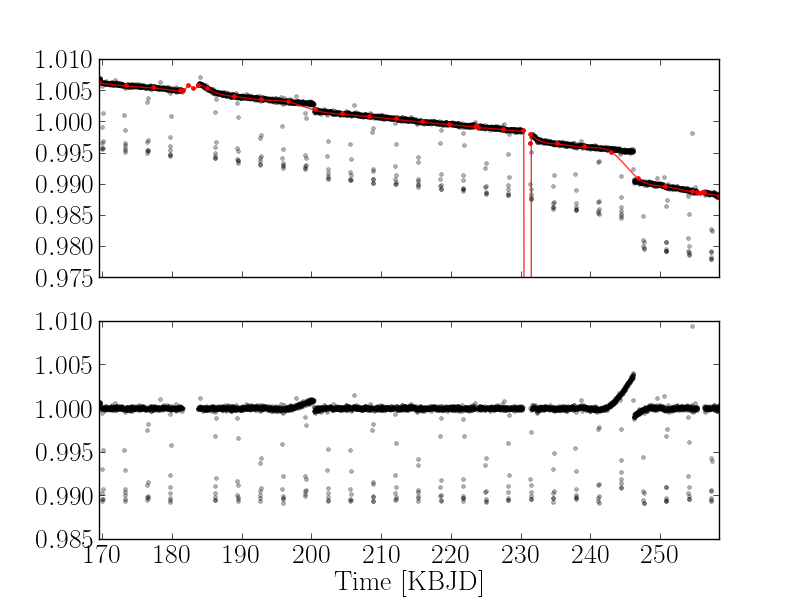
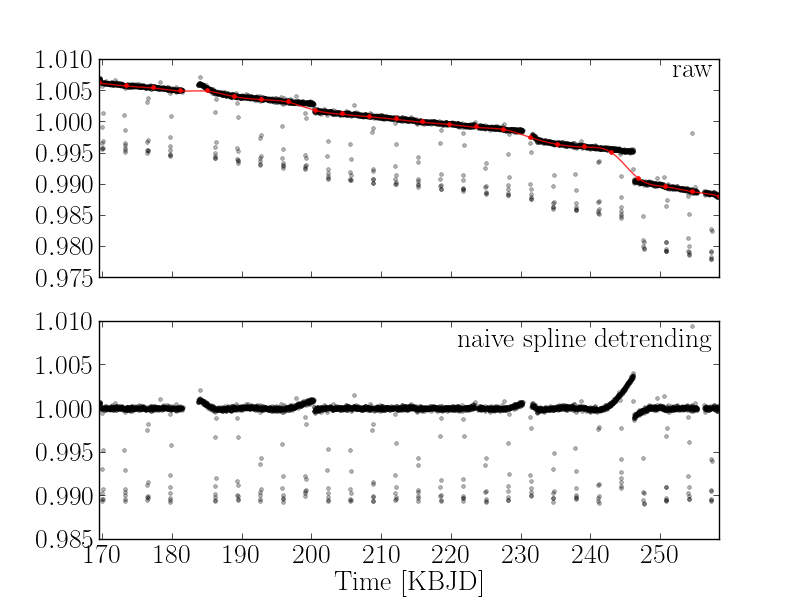
discussion of IRLS and starting to talk about discontinuities

diff --git a/docs/detrend_figures/make_figures.py b/docs/detrend_figures/make_figures.py
@@ -47,28 +47,37 @@ ax[-1].set_xlabel("Time [KBJD]")
 
 fig.savefig("detrend.png")
 
-# Plot the fitting figures.
-fig2 = pl.figure(figsize=[8, 6])
-ax2 = [fig2.add_subplot(2, 1, i + 1) for i in range(2)]
+ps = [spline_detrend(ds.time, ds.flux, yerr=ds.ferr, fill_times=False,
+                     maxditer=1),
+      spline_detrend(ds.time, ds.flux, yerr=ds.ferr, maxditer=1),
+      spline_detrend(ds.time, ds.flux, yerr=ds.ferr)]
 
-# Do the most basic de-trending.
-p2 = spline_detrend(ds.time, ds.flux, yerr=ds.ferr, maxditer=1)
-factor2 = p2(ds.time)
+for i, p in enumerate(ps):
+    # Plot the fitting figures.
+    fig2 = pl.figure(figsize=[8, 6])
+    ax2 = [fig2.add_subplot(2, 1, j + 1) for j in range(2)]
 
-# Plot the basic fit.
-t = np.linspace(xlim[0], xlim[1], 10 * len(ds.time))
-ax2[0].plot(ds.time, ds.flux, ".k", alpha=0.3)
-ylim = ax2[0].get_ylim()
-ax2[0].plot(t, p2(t), "r", alpha=0.8)
-ax2[0].plot(p2.get_knots(), p2(p2.get_knots()), ".r", alpha=1)
-ax2[0].set_ylim(ylim)
+    # Do the most basic de-trending.
+    factor2 = p(ds.time)
 
-# Plot the basic de-trend.
-ax2[1].plot(ds.time, ds.flux / factor2, ".k", alpha=0.3)
+    # Plot the basic fit.
+    t = np.linspace(xlim[0], xlim[1], 10 * len(ds.time))
+    ax2[0].plot(ds.time, ds.flux, ".k", alpha=0.3)
+    ylim = ax2[0].get_ylim()
+    ax2[0].plot(t, p(t), "r", alpha=0.8)
+    ax2[0].plot(p.get_knots(), p(p.get_knots()), ".r", alpha=1)
+    ax2[0].set_ylim(ylim)
 
-# Format the axes.
-[a.set_xlim(xlim) for a in ax2]
-[a.set_xticklabels([]) for a in ax2[:-1]]
-ax2[-1].set_xlabel("Time [KBJD]")
+    # Plot the basic de-trend.
+    ax2[1].plot(ds.time, ds.flux / factor2, ".k", alpha=0.3)
 
-fig2.savefig("detrend_2.png")
+    # Format the axes.
+    [a.set_xlim(xlim) for a in ax2]
+    [a.set_xticklabels([]) for a in ax2[:-1]]
+    ax2[-1].set_xlabel("Time [KBJD]")
+
+    [a.annotate(s, [1, 1], xycoords="axes fraction", ha="right", va="top",
+                xytext=[-5, -5], textcoords="offset points")
+            for (a, s) in zip(ax2, ["raw", "naive spline detrending"])]
+
+    fig2.savefig("detrend_{0}.png".format(i + 2))

diff --git a/bart/kepler.py b/bart/kepler.py
@@ -31,7 +31,7 @@ TIME_ZERO = 2454833.0
 
 
 def spline_detrend(x, y, yerr=None, Q=4, dt=4., tol=1.25e-3, maxiter=15,
-                   maxditer=4, nfill=4):
+                   fill_times=True, maxditer=4, nfill=4):
     """
     Use iteratively re-weighted least squares to fit a spline to the base
     trend in a time series. This is especially useful (and specifically
@@ -81,9 +81,10 @@ def spline_detrend(x, y, yerr=None, Q=4, dt=4., tol=1.25e-3, maxiter=15,
     t = np.linspace(x[0], x[-1], N)[1:-1]
 
     # Refine knot locations around break points.
-    inds = x[1:] - x[:-1] > 10 ** (-1.25)
-    for i in np.arange(len(x))[inds]:
-        t = _add_knots(t, x[i], x[i + 1], N=nfill)
+    if fill_times:
+        inds = x[1:] - x[:-1] > 10 ** (-1.25)
+        for i in np.arange(len(x))[inds]:
+            t = _add_knots(t, x[i], x[i + 1], N=nfill)
 
     for j in range(maxditer):
         s0 = None

diff --git a/docs/user/detrending.rst b/docs/user/detrending.rst
@@ -19,6 +19,18 @@ computationally tractable at this point so these techniques won't be discussed
 here.
 
 
+How to Use Bart to Apply De-trending
+------------------------------------
+
+By default the :class:`bart.dataset.KeplerDataset` applies spline de-trending algorithm to
+the light curve when it reads the data. This behavior can be specified using
+the ``detrend`` keyword argument in the constructor.
+
+If you would like the apply the de-trending algorithm to a different dataset
+or if you would like to have a greater level of control, you can use the
+:func:`bart.kepler.spline_detrend` function.
+
+
 Nature of the Trends
 --------------------
 
@@ -28,4 +40,85 @@ There are three distinct classes of artifacts in the Kepler light curves:
 2. temporal breaks without data, and
 3. abrupt discontinuities in sensitivity.
 
-The following figure shows examples
+The following figure shows the long cadence data from a single quarter spent
+observing the Kepler-6 system. The top panel shows the raw aperture photometry
+reported by the Kepler pipeline. The middle panel shows the resulting light
+curve after the PDC correction. The bottom panel shows the result of
+de-trending using the techniques described here.
+
+.. image:: ../_static/detrend.png
+
+This is a nice example because it clearly displays all three issues mentioned
+above. The smooth component seems roughly piecewise linear with the breaks in
+the slope occurring where there are discontinuities in the data. At around 182
+days, there is a temporal break (type 2 above) that also has a corresponding
+sensitivity discontinuity (type 3 above). Then, at around 200 days, there is a
+discontinuity that doesn't have a corresponding break in the time series. As
+you can see from the middle panel, the PDC pipeline does not remove all the
+artifacts—and no-one claims that it is supposed to—but we are able to catch
+all of the problems using our slightly more sophisticated technique.
+
+
+Fitting A Cubic Spline Using Iteratively Re-Weighted Least Squares
+------------------------------------------------------------------
+
+Our base model for de-trending is a cubic spline with knots approximately
+every four days. This is clearly an over-constrained linear system so we will
+use least squares (LS) to find the minimum :math:`\chi^2` solution. In an
+example like the one in the figure above, naïve use of least-squares would
+result in the fit being biased low because of the transits. To deal with this,
+we use a robust algorithm called iteratively re-weighted least squares (IRLS;
+CITE HOGG'S BRAIN?). This techniques is similar to sigma clipping but it is
+somewhat more robust because it smoothly reduces the impact of outliers
+without discounting them entirely (COME ON). The basic algorithm is as
+follows:
+
+1. Compute the inverse variance of the observations :math:`w_n=1/\sigma_n^2`
+   where :math:`\sigma_n` are the quoted uncertainties.
+2. Compute the LS solution weighted by :math:`w_n`.
+3. Compute :math:`\chi_n^2 = [y_n - \hat{y}(x_n)]^2 / \sigma_n^2`.
+4. Update the weights :math:`w_n = Q / [\sigma_n^2 \, (\chi_n^2 + Q)]` for
+   some value of :math:`Q`.
+5. Go to step 2 and iterate to convergence.
+
+The choice of :math:`Q` sets the maximum effect that an outlier can have on
+the fit. For an extreme outlier (:math:`\chi_n^2 \gg Q`), the effect of that
+point will be down-weighted by the factor :math:`Q / \chi_n^2`. For points
+that are well fit by the model, the weight is simply :math:`1/\sigma_n^2` as
+you would use in standard LS. We find that a :math:`Q` of 4 seems to work well
+in this context but there is no reason to assume that this will be an optimal
+choice in all situations.
+
+Now, let's return to the Kepler-6 example shown in the figure above. The
+following figure shows the result of naïvely fitting the light curve using
+a cubic spline and IRLS.
+
+.. image:: ../_static/detrend_2.png
+
+The top panel shows the raw aperture photometry as black points and the spline
+fit is shown with a red line and the locations of the knots placed every four
+days are shown as red dots. The bottom panel is the same data with the model
+fit divided out. It's clear that we've been able to remove the global trends
+but the behavior at the discontinuities is definitely still a significant
+problem that we will deal with in the next section.
+
+
+Dealing With Discontinuities
+----------------------------
+
+The results shown in the previous figure made it clear that the effects of
+data artifacts of the types 2 and 3 are significant and a satisfactory
+de-trending algorithm should handle them well. The temporal discontinuities
+(type 2) are the easiest to deal with. Since the datasets have a well-defined
+cadence, it is easy to pick out the discontinuities by examining the time
+between subsequent observations in the dataset. If this time is substantially
+longer than the cadence then this is a discontinuity that should be dealt
+with. We found that a reasonable tolerance threshold is triple the cadence and
+this seems to pick out most of the artifacts with very little contamination
+but this choice was definitely far from systematic.
+
+After finding all of the times where there is a discontinuity, we add a knot
+at either end of the break and two evenly spaced in between.
+
+
+

diff --git a/docs/api.rst b/docs/api.rst
@@ -28,3 +28,8 @@ Kepler API & Data
 
 .. autoclass:: bart.kepler.API
    :inherited-members:
+
+.. autoclass:: bart.dataset.KeplerDataset
+   :inherited-members:
+
+.. autofunction:: bart.kepler.spline_detrend
